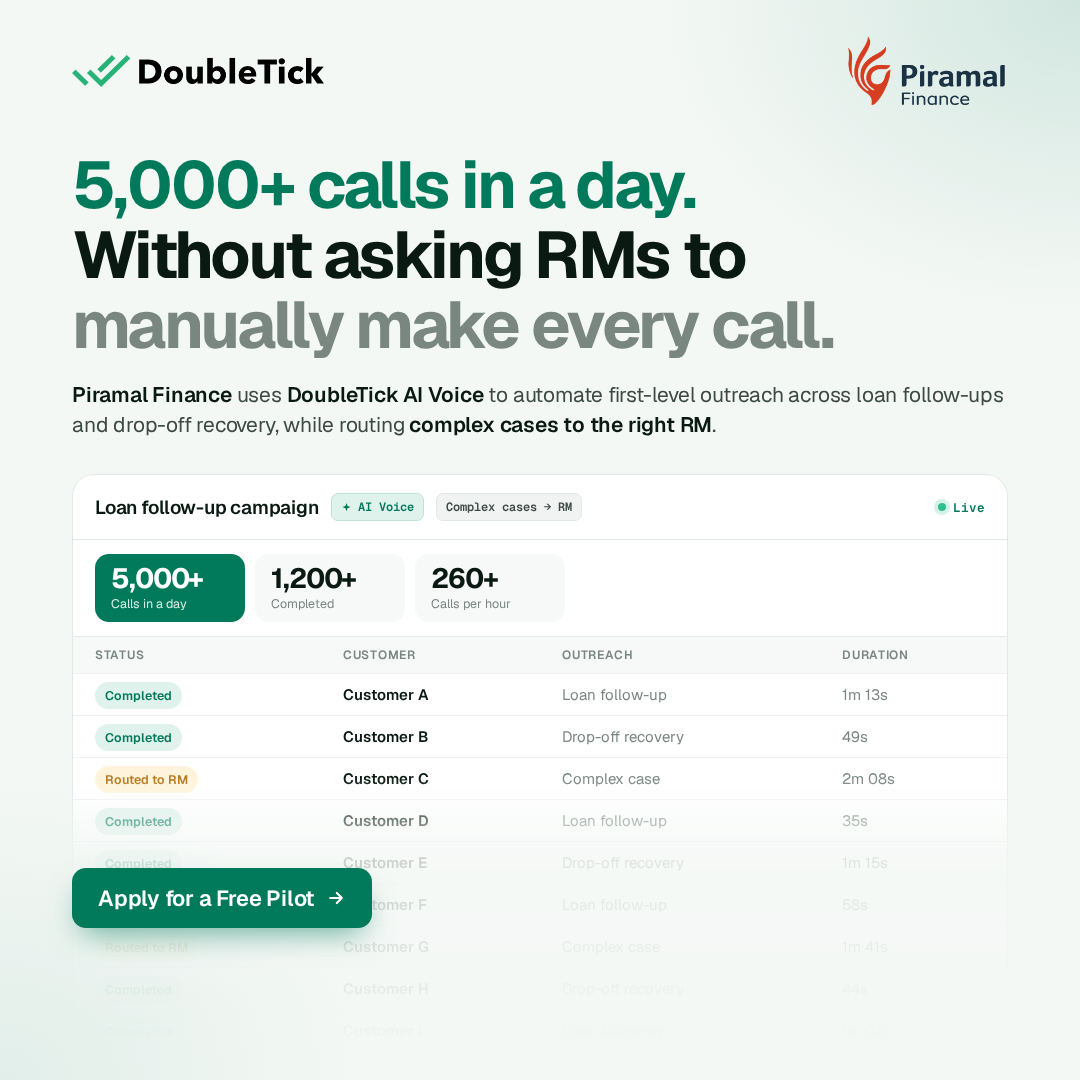
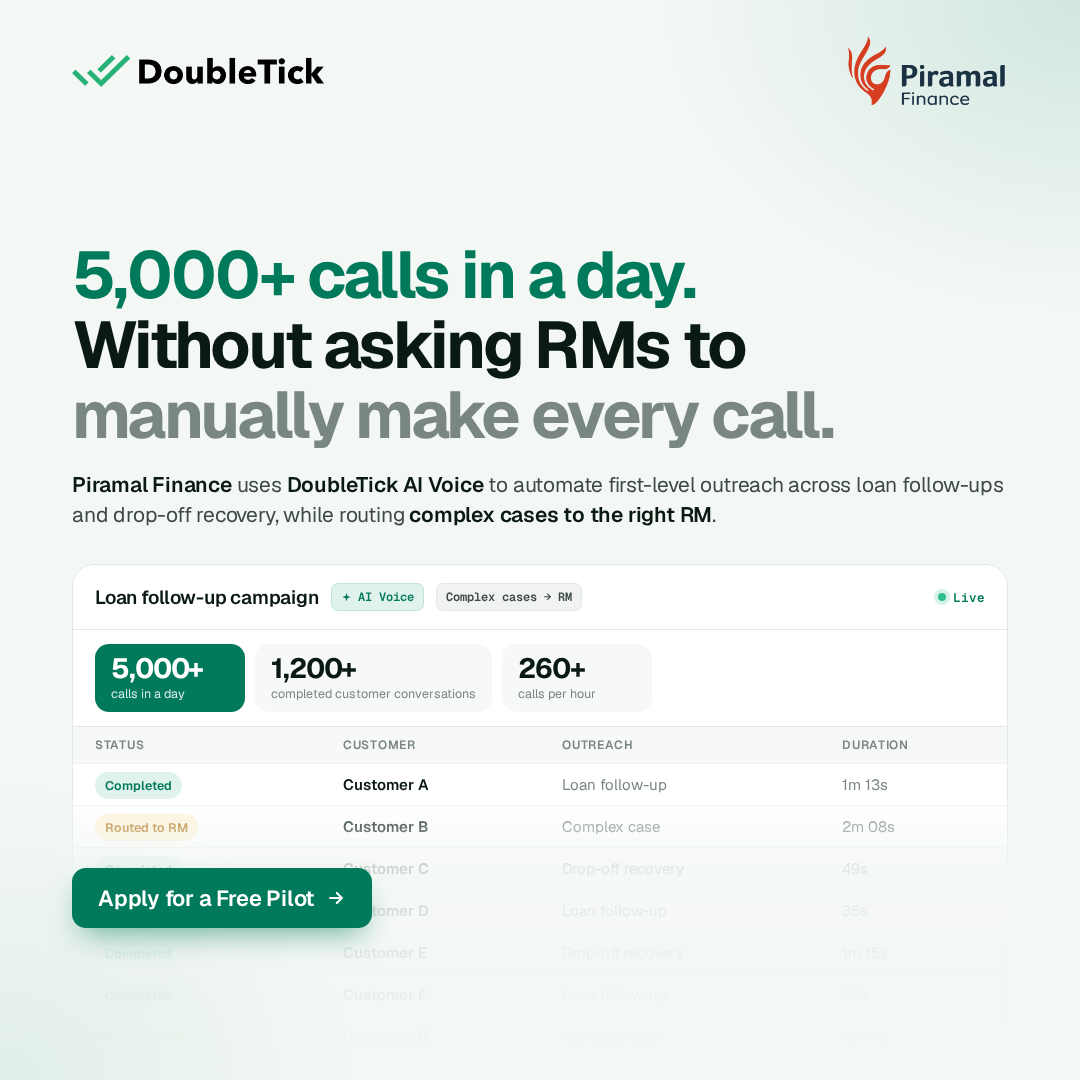
feat: lower hook, lowercase metric labels, keep RM row visible in Piramal volume ad
Claude-Session: https://claude.ai/code/session_013Hi5o4KgvuLbKTeGkStAKX

diff --git a/ads/doubletick-case-piramal-volume/index.html b/ads/doubletick-case-piramal-volume/index.html
@@ -52,7 +52,7 @@
   }
   .pill i { width: 8px; height: 8px; border-radius: 50%; background: var(--green-2); box-shadow: 0 0 0 4px rgba(47,191,143,.25); }
 
-  h1 { margin-top: 20px; font-size: 66px; line-height: 1.06; letter-spacing: -0.04em; font-weight: 700; }
+  h1 { margin-top: 110px; font-size: 66px; line-height: 1.06; letter-spacing: -0.04em; font-weight: 700; }
   h1 .drop { color: var(--muted); }
   h1 .die { color: var(--red); }
   h1 em { font-style: normal; color: var(--green); }
@@ -61,11 +61,11 @@
 
   /* visual: simplified campaign dashboard, fading off the bottom edge */
   .ad::before { display: none; }
-  .ad > .vis { position: absolute; left: 72px; top: 474px; width: 936px; height: 606px; }
+  .ad > .vis { position: absolute; left: 72px; top: 564px; width: 936px; height: 606px; }
   .dash { position: absolute; inset: 0; overflow: hidden; background: #fff; border: 1px solid var(--line); border-bottom: 0; border-radius: 22px 22px 0 0;
     box-shadow: 0 18px 40px -24px rgba(10,26,18,.35);
-    -webkit-mask-image: linear-gradient(#000 50%, rgba(0,0,0,.18) 63%, rgba(0,0,0,.08) 80%, transparent 96%);
-    mask-image: linear-gradient(#000 50%, rgba(0,0,0,.18) 63%, rgba(0,0,0,.08) 80%, transparent 96%); }
+    -webkit-mask-image: linear-gradient(#000 38%, rgba(0,0,0,.16) 50%, rgba(0,0,0,.06) 66%, transparent 82%);
+    mask-image: linear-gradient(#000 38%, rgba(0,0,0,.16) 50%, rgba(0,0,0,.06) 66%, transparent 82%); }
   .dh { display: flex; align-items: center; gap: 12px; padding: 18px 22px; border-bottom: 1px solid var(--line); }
   .dh .tt { font-size: 19px; font-weight: 600; letter-spacing: -0.01em; }
   .chip { font-size: 12px; font-weight: 600; padding: 5px 9px; border-radius: 7px; display: inline-flex; align-items: center; gap: 6px; }
@@ -111,11 +111,11 @@
   <div class="vis"><div class="dash">
     <div class="dh"><span class="tt">Loan follow-up campaign</span><span class="chip ai mono"><svg width="11" height="11" viewBox="0 0 24 24" fill="#007A5A"><path d="M12 2l2.2 6.6L21 11l-6.8 2.4L12 20l-2.2-6.6L3 11l6.8-2.4z"/></svg>AI Voice</span><span class="chip sp mono">Complex cases → RM</span><span class="live mono"><i></i>Live</span></div>
     <div class="tabs">
-      <div class="tab on"><span class="v">5,000+</span><span class="l">Calls in a day</span></div>
-      <div class="tab"><span class="v">1,200+</span><span class="l">Completed</span></div>
-      <div class="tab"><span class="v">260+</span><span class="l">Calls per hour</span></div>
+      <div class="tab on"><span class="v">5,000+</span><span class="l">calls in a day</span></div>
+      <div class="tab"><span class="v">1,200+</span><span class="l">completed customer conversations</span></div>
+      <div class="tab"><span class="v">260+</span><span class="l">calls per hour</span></div>
     </div>
-    <table><thead><tr><th>Status</th><th>Customer</th><th>Outreach</th><th>Duration</th></tr></thead><tbody><tr><td><span class="st c">Completed</span></td><td class="nm">Customer A</td><td class="ty">Loan follow-up</td><td class="du">1m 13s</td></tr><tr><td><span class="st c">Completed</span></td><td class="nm">Customer B</td><td class="ty">Drop-off recovery</td><td class="du">49s</td></tr><tr><td><span class="st r">Routed to RM</span></td><td class="nm">Customer C</td><td class="ty">Complex case</td><td class="du">2m 08s</td></tr><tr><td><span class="st c">Completed</span></td><td class="nm">Customer D</td><td class="ty">Loan follow-up</td><td class="du">35s</td></tr><tr><td><span class="st c">Completed</span></td><td class="nm">Customer E</td><td class="ty">Drop-off recovery</td><td class="du">1m 15s</td></tr><tr><td><span class="st c">Completed</span></td><td class="nm">Customer F</td><td class="ty">Loan follow-up</td><td class="du">58s</td></tr><tr><td><span class="st r">Routed to RM</span></td><td class="nm">Customer G</td><td class="ty">Complex case</td><td class="du">1m 41s</td></tr><tr><td><span class="st c">Completed</span></td><td class="nm">Customer H</td><td class="ty">Drop-off recovery</td><td class="du">44s</td></tr><tr><td><span class="st c">Completed</span></td><td class="nm">Customer I</td><td class="ty">Loan follow-up</td><td class="du">1m 02s</td></tr></tbody></table>
+    <table><thead><tr><th>Status</th><th>Customer</th><th>Outreach</th><th>Duration</th></tr></thead><tbody><tr><td><span class="st c">Completed</span></td><td class="nm">Customer A</td><td class="ty">Loan follow-up</td><td class="du">1m 13s</td></tr><tr><td><span class="st r">Routed to RM</span></td><td class="nm">Customer B</td><td class="ty">Complex case</td><td class="du">2m 08s</td></tr><tr><td><span class="st c">Completed</span></td><td class="nm">Customer C</td><td class="ty">Drop-off recovery</td><td class="du">49s</td></tr><tr><td><span class="st c">Completed</span></td><td class="nm">Customer D</td><td class="ty">Loan follow-up</td><td class="du">35s</td></tr><tr><td><span class="st c">Completed</span></td><td class="nm">Customer E</td><td class="ty">Drop-off recovery</td><td class="du">1m 15s</td></tr><tr><td><span class="st c">Completed</span></td><td class="nm">Customer F</td><td class="ty">Loan follow-up</td><td class="du">58s</td></tr><tr><td><span class="st r">Routed to RM</span></td><td class="nm">Customer G</td><td class="ty">Complex case</td><td class="du">1m 41s</td></tr><tr><td><span class="st c">Completed</span></td><td class="nm">Customer H</td><td class="ty">Drop-off recovery</td><td class="du">44s</td></tr><tr><td><span class="st c">Completed</span></td><td class="nm">Customer I</td><td class="ty">Loan follow-up</td><td class="du">1m 02s</td></tr></tbody></table>
   </div></div>
 
   <div class="cta">
